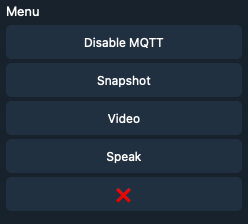
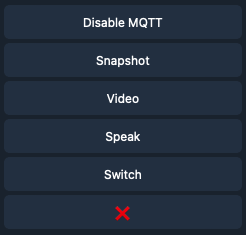
Updated README

diff --git a/README.md b/README.md
@@ -6,16 +6,15 @@
 
 - [Table of Contents](#table-of-contents)
 - [Features](#features)
-- [Features screenshots](#features-screenshots)
 - [Prerequisites](#prerequisites)
 - [Bot creation](#bot-creation)
 - [Installation](#installation)
 - [Performance](#performance)
-- [Supported cameras](#supported-cameras)
+- [Supported cameras](#devices)
 - [Donation](#donation)
 
+<a name="features"></a>
 ## Features
-
 - **Authentication**
     - User Authentication based on telegram unique username
     - Administrator access logs push
@@ -35,8 +34,10 @@
 - **Audio**
     - Text to Speech to cameras
     - Send Audio to cameras
+- **Switch**
+    - Switch entities, like shelly relays
 
-## Features screenshots
+### Features screenshots
 - **Authentication**
 - **Authorization**
     
@@ -55,10 +56,10 @@
     
     ![alt text](images/ttx.png)
 
-
+<a name="prerequisites"></a>
 ## Prerequisites
 
-### YI Cameras
+### YI Cameras (Optional)
 
 Install correct **YI-Hack** firmware for your camera:
 
@@ -79,18 +80,20 @@ Install:
 
 - Needed for motion detection images and messages
 
+<a name="bot-creation"></a>
 ## Bot Creation
 
 1. Create a Telegram Bot with **BotFather**
 2. Write down **Token**
 3. Copy commands from `botCommands.txt` and paste on **BotFather** commands for your bot
 
+<a name="installation"></a>
 ## Installation
 
 ### Preparing configuration
 
 - Create a **config.yaml**. See `config-example.yaml`
-- Bot mode of operation, choose between:
+- Bot mode of operation, choose one of:
     - **(DEFAULT) Polling bot**:
         The bot will ask to Telegram servers if there are new updates. No port to open
     - **WebHook**:
@@ -101,7 +104,7 @@ Install:
           guide**](https://github.com/python-telegram-bot/python-telegram-bot/wiki/Webhooks)
 
 
-### Docker Install
+### Docker Install (Recommended)
 
 Very simple
 
@@ -109,7 +112,7 @@ Very simple
 docker-compose up -d --build   
 ```
 
-### Python Install
+### Manual python Install
 
 1. Install python
 2. Create a virtual environment
@@ -124,15 +127,26 @@ docker-compose up -d --build
 ```shell
   (venv) python main.py
 ```
-
+<a name="performance"></a>
 ## Performance
 
 Bot performance depends on camera availability and MQTT delay.
 
-## Supported-Cameras
+<a name="devices"></a>
+## Supported Devices
+### Services
+- **MQTT**: all devices with MQTT support
+- **REST API**: all devices with REST API support
+### Supported Cameras
+All **MQTT** and **REST API** cameras.
+#### Tested Models
+- **YIHacks**: cameras supported by **Yi-Hack** projects
+- **Reolink**: cameras with Rest API by Reolink
+### Supported Switches
+All **MQTT** and **REST API** switches.
+#### Tested Models
+- **Shelly**: relays
 
-All cameras supported by **Yi-Hack** projects
-
+<a name="donation"></a>
 ## Donation
-
-[**Donation**](paypal.me/LucaGiulianini)
+[**Donation**](https://www.paypal.me/LucaGiulianini)
